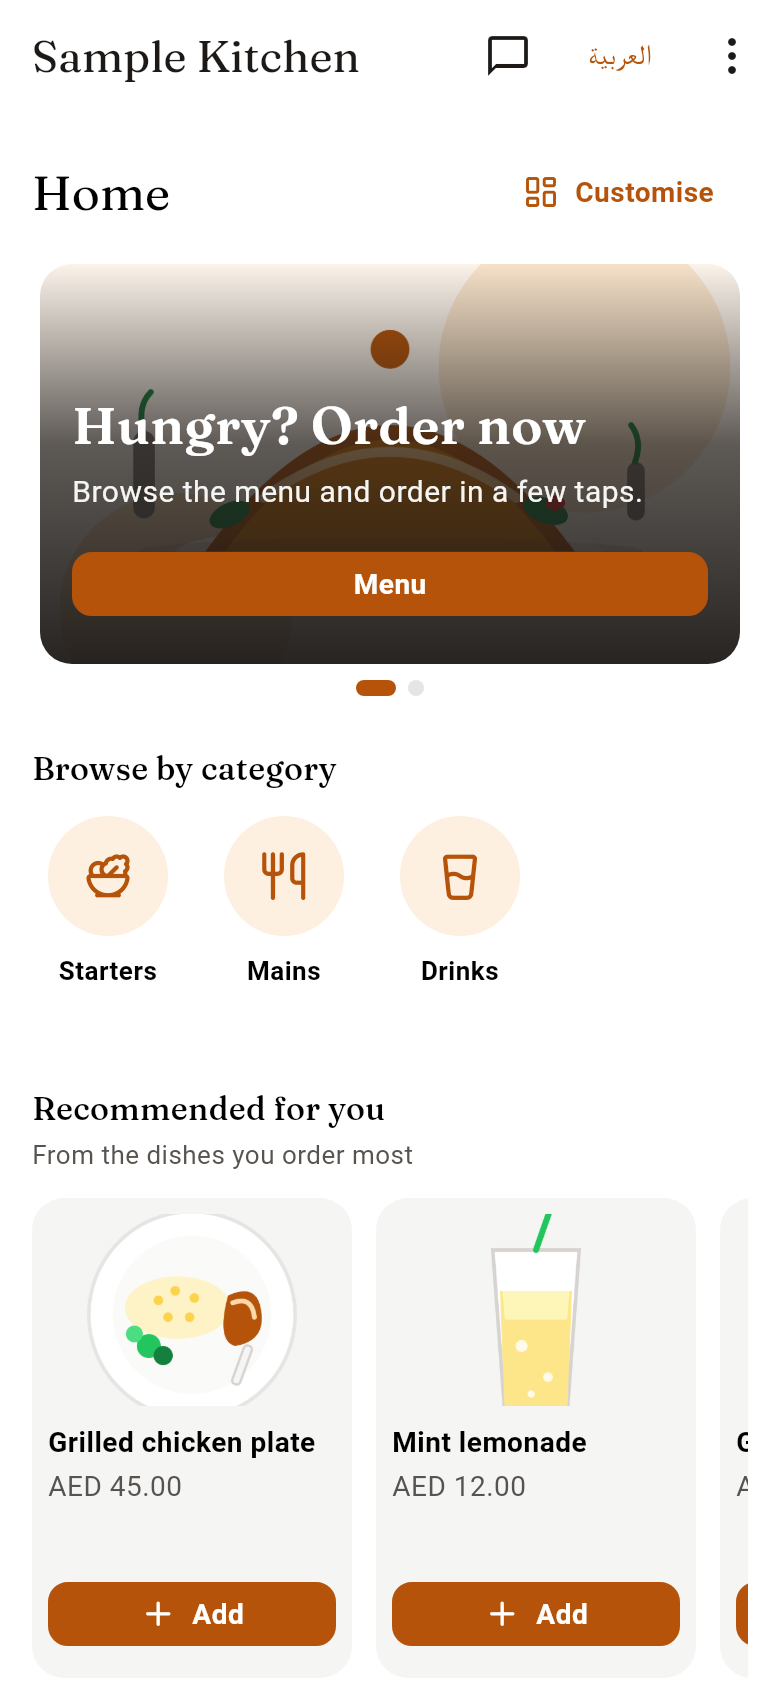
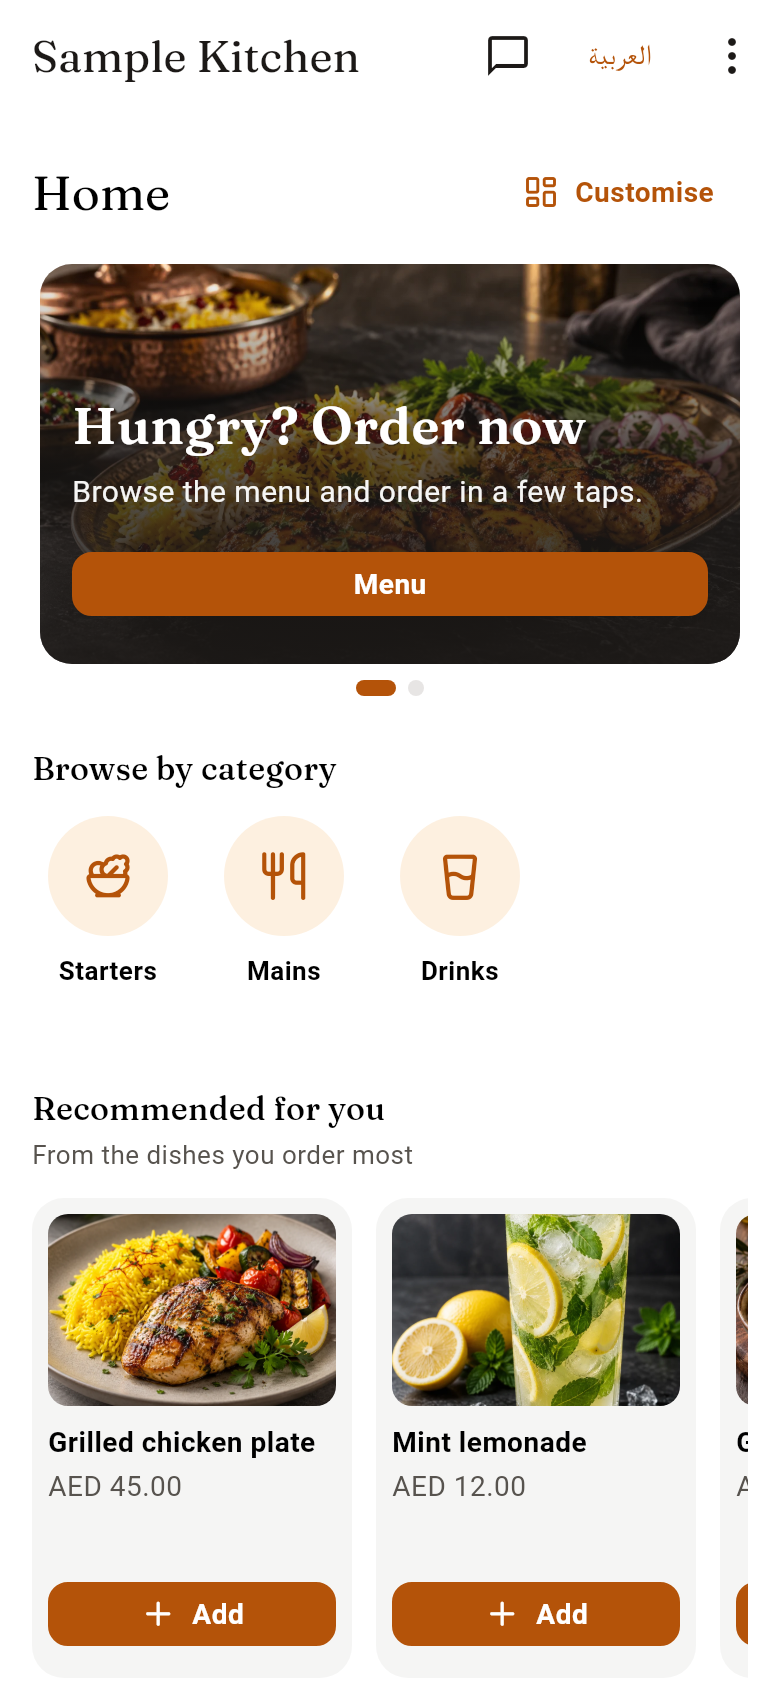
customer app: premium food photography for the hero and categories
Hero and the four category pictures use generated styled food photography
(WebP, about 200 KB each). They are illustrative and must be replaced with
photos of the real dishes before launch. Captures are re-rendered.

Claude-Session: https://claude.ai/code/session_01Cz3SFRn5hDTUEeGBn2V1Rh

diff --git a/food-app/mobile/lib/core/art.dart b/food-app/mobile/lib/core/art.dart
@@ -2,7 +2,7 @@
 // empty-state pictures. The server chooses which illustration a category shows; this file only maps the key to a file.
 class Art {
   const Art._();
-  static const hero = 'assets/images/hero-kitchen.png';
+  static const hero = 'assets/images/photo/hero-kitchen.webp';
   static const cartEmpty = 'assets/images/empty-cart.png';
   static const ordersEmpty = 'assets/images/empty-orders.png';
   static const membership = 'assets/images/membership-hero.png';
@@ -11,9 +11,9 @@ class Art {
 
   /// The picture for a category's illustration key from the server. An unknown key shows the plate.
   static String forCategory(String key) => switch (key) {
-        'starters' => 'assets/images/dish-starters.png',
-        'drinks' => 'assets/images/dish-drinks.png',
-        'desserts' => 'assets/images/dish-desserts.png',
-        _ => 'assets/images/dish-mains.png',
+        'starters' => 'assets/images/photo/dish-starters.webp',
+        'drinks' => 'assets/images/photo/dish-drinks.webp',
+        'desserts' => 'assets/images/photo/dish-desserts.webp',
+        _ => 'assets/images/photo/dish-mains.webp',
       };
 }

diff --git a/replica/ux-review-2026-10-29.md b/replica/ux-review-2026-10-29.md
@@ -130,6 +130,9 @@ issue, S4 is polish.
   No photography, copy, logos or colours from the reference apps are used.
 - Headings use Fraunces (SIL Open Font License, bundled as `food-app/mobile/assets/fonts/Fraunces-Variable.ttf`, licence
   alongside). It is a variable font, so headings render at its default weight; Arabic headings fall back to the system font.
+- Photography (round 4): the hero and four category pictures are AI-generated styled food photography
+  (`food-app/mobile/assets/images/photo/`, WebP). They are illustrative, not photos of the restaurant's dishes. Replace
+  each one with a photo of the real dish before launch, since a generated picture can differ from what is served.
 - Not done in this round: a third hero slide, promotional banners from the offers feed, and a true personalised
   recommendation model. Recommendations use order history only. Photography is still the project's illustrations.
 
